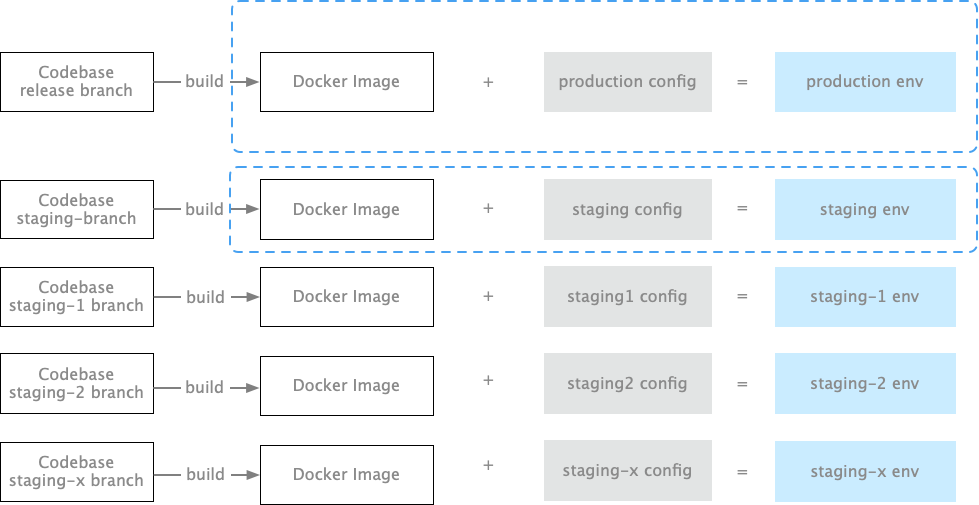
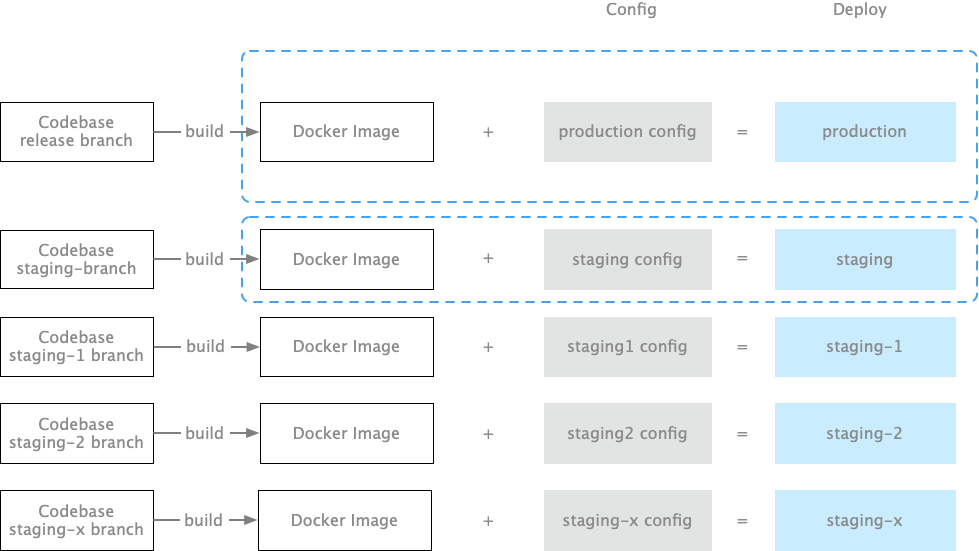
update

diff --git a/_posts/2022-08-12-manage-rails-environments.md b/_posts/2022-08-12-manage-rails-environments.md
@@ -18,7 +18,7 @@ tags:
 
 **少量客户阶段**
 
-产品不断迭代，逐渐的有客户开始使用产品。为了保证工程质量，这时候需要给 Rails 添加一个非生产环境，通常大家都命名为 "staging"环境，工作流程也开始严谨：
+产品不断迭代，逐渐的有客户开始使用产品。为了保证工程质量，这时候需要给 Rails 添加一个预发布环境，通常大家都命名为 staging 环境，工作流程也开始严谨：
 
 1. 工程师在本地开发新功能。（developer 环境）
 2. 在CI（或本地）跑测试。（test 环境）
@@ -35,13 +35,13 @@ environments
 
 **大量客户 + 多团队协作 + 多 QA**
 
-如果产品有市场，客户越来越多。团队规模也由几个人扩增到几十人或上百人。人员众多，且共用一个 staging 环境，合并代码发布到 staging 时就会有越来越多的代码冲突。
+如果产品市场反响良好，客户越来越多。工程师团队规模也由几个人扩增到几十人或上百人。人员众多，且共用一个 staging 环境，合并代码到 staging 分支时就会有越来越多的冲突。
 
-有些程序员比较耐心，遇到冲突会联系原作者，解决代码冲突。
+有些程序员比较耐心，遇到冲突会联系原作者，一起解决代码冲突。
 
-但是如果是跨国团队，一来一回需要一天时间，非常要命。这时候程序员可能就没有耐心，选择直接重置 staging 的 git 分支。这会导致一系列的问题，比如别人正在测试的功能就消失了，QA 工程师认为是 bug，上报，结果细查下来是代码重置导致的。
+但是如果是跨国团队，因为时差的原因，一来一回的沟通需要一天时间，非常要命。这时候程序员可能就没有耐心，选择直接重置 staging 分支，这会导致别人正在测试的功能凭空消失，QA 工程师上报 bug，结果细查下来是代码重置导致的。
 
-为了降低冲突和沟通成本，很多公司会选择创建更多的 staging 环境：
+为了降低代码冲突和沟通成本，很多公司会选择创建更多的预发布(staging)环境：
 
 - staging 给 QA 专用，用于上线前的回归测试。
 - staging-1 给 A 团队使用
@@ -49,24 +49,27 @@ environments
 - staging-3 给 C 团队使用
 - staging-4 给 D 团队使用
 - staging-5 给 E 团队使用
+- ...
+- staging-x 给 x 团队使用
 
-工程师越多，需要创建的 Rails 环境也越多，环境的管理和创建是个头疼的问题。
+工程师越多，需要的 Rails 环境也越多，环境的创建和维护变成 DevOps 的体力活。
+
+如何创建新环境呢？
 
 ## 第一种方案： 在 Rails 的 `config/environments` 目录下创建6个环境的配置文件。
 
-这种方法简单，且遵循了原汁原味的 Rails 风格。
+这是 Rails 推荐的配置风格，方法简单，原汁原味。
 
 ![](/media/files/2022/2022-08-12-08-41-03-stagings.jpg)
 
-但除了 `config/environments`，还有许多需要额外的工作。
-
-第二步，在 database.yml 添加6个环境的数据库配置。
+但除了 `config/environments`，还有许多额外工作。我们需要在 `config/database.yml` 添加6个环境的数据库配置。
 
 ![](/media/files/2022/2022-08-12-database-yml.jpg)
 
-第三步，有些工程师喜欢把一些配置放到常量里。我们需要检查各种常量，确保新创建的环境，都有对应的值。
+有些工程师喜欢把一些配置放到常量里。那我们还需要检查各种常量，确保新创建的环境，都有赋值。尤其是在犄角旮旯里定义的变量，如果没有察觉，新环境会一直报错。所以需要全局搜索 `Rails.env`，免得遗漏。
 
 ```
+# config/initializers/sidekiq.rb
 
 case Rails.env
 when :staging-1
@@ -77,7 +80,7 @@ when :staging-2
 ...
 ```
 
-第四步，有些工程师喜欢用一些库来管理配置，比较常用的是 [rubyconfig/config](https://github.com/rubyconfig/config)。我们需要为新创建的环境添加配置文件。
+在常量里定义配置，糟糕透顶。所以有品位的工程师会把不同环境的配置抽象出来，放到不同的文件中，并且用一些库来管理配置，Rails 常用的库是 [rubyconfig/config](https://github.com/rubyconfig/config)。我们也需要为新创建的环境添加配置文件。
 
 ```
 config/settings.yml
@@ -93,21 +96,19 @@ config/settings/staging-4.yml
 config/settings/staging-5.yml
 ```
 
-第五步，全局搜索 `Rails.env` ，逐一检查，免得遗漏。
 
-全套走下来，工程量不小，也带来诸多缺点：
+总之，以上都不是万全之策，有诸多缺点：
 
-1. 如果在犄角旮旯里配置了和环境相关的变量，而你没有察觉，新环境会一直报错。
-2. 修改常量很危险。每次增加环境会改动老代码，稍有不慎就会把所有环境毁了。违背了开放封闭原则（Open–closed principle）。
-3. 安全性差。配置中可能包含 client_secret，token，私钥。如果代码不幸泄露，各种秘钥也被一锅端。针对这个问题，Rails 6 推出了 [Rails Credential](https://edgeguides.rubyonrails.org/security.html#environmental-security) 这个功能。
+1. 即使有完备的内部文档，搭建新环境也非常耗时耗力，全套走下来，工程量不小。
+2. 修改常量很危险，创建环境会触碰老代码，稍有不慎就会毁掉所有环境，违背了开放封闭原则（Open–closed principle）。
+3. 安全性差。配置中包含 client_secret，token，私钥，如果代码不幸泄露，各种秘钥被一锅端。针对这个问题，Rails 6 推出了 [Rails Credential](https://edgeguides.rubyonrails.org/security.html#environmental-security) 这个功能。
 3. docker 镜像混杂了各种配置信息，不再干净。
 
-我想正因为这种方案的诸多缺点，大家在实践时，才会不约而同选择把配置信息放到环境变量中，这不得不提一下 12-factors。
+正因为如此多的缺点，大家不约而同的把配置信息放到环境变量中，并且归纳总结了一些最佳实践供后人学习。
 
+## The 12-factor Application
 
-## 12-factors
-
-Heroku 写过一篇奉为圭臬的 SaaS 架构文章 《[12-factors application](https://12factor.net/)》，里面描述了设计 SaaS 应用时12条原则。时至今日，其地位依然无法撼动。
+Heroku 写过一篇奉为圭臬的 SaaS 架构文章 《[12-factor  Application](https://12factor.net/)》，里面描述了设计 SaaS 应用的12条原则。时至今日，依然无出其右。
 
 ### 第一条原则：一份基准代码（Codebase），多份部署（deploy）
 
@@ -117,7 +118,7 @@ Heroku 写过一篇奉为圭臬的 SaaS 架构文章 《[12-factors application]
 
 ### 第二条原则：显式声明依赖关系（ dependency ）
 
-同样的代码，在不同机器，依赖要一致，行为也要一致。人们为此付出了诸多努力，比如：
+同样的代码，在不同机器，依赖要一致，行为也要一致，比如：
 
 - JavaScript 使用 npm 或 yarn 来管理各种库的依赖。
 - Ruby 使用 Bundler 来管理各种库的版本依赖。
@@ -125,13 +126,13 @@ Heroku 写过一篇奉为圭臬的 SaaS 架构文章 《[12-factors application]
 
 ### 第三条原则：在环境中存储配置
 
-> [the 12-factor app: config](https://12factor.net/zh_cn/config)
+> [The 12-factor App: 配置](https://12factor.net/zh_cn/config)
 > 
-> 12-Factor推荐将应用的配置存储于环境变量中（ env vars, env ）。环境变量可以非常方便地在不同的部署间做修改，却不动一行代码。
+> 12-Factor 推荐将应用的配置存储于环境变量中（ env vars, env ）。环境变量可以非常方便地在不同的部署间做修改，却不动一行代码。
 
 **Docker**
 
-比如 Docker 允许你把配置放到环境变量中，从而创建不同的 container 实例。
+比如 Docker 允许你把配置放到环境变量中，从而创建不同的实例（container）。
 
 ```
 docker run --name postgresql \
@@ -143,16 +144,18 @@ docker run --name postgresql \
 
 **Helm**
 
-[Helm](https://helm.sh/) 是一个 Kubernetes 应用的包管理工具，它有三个核心概念，chart，config，release。它也与 12-factor 相通。
+[Helm](https://helm.sh/) 是一个 Kubernetes 应用的包管理工具，它有三个核心概念，chart，config，release。
 
 - chart 是模版
 - config 是配置信息
 
 chart + config = release （一个部署的实例）
 
-**由此可见，我们的第一种实现方案，每次添加新环境都要改动代码，完全不符合 12-factor application 的原则。有没有更好的解决思路？**
+**前文所述的第一种方案，每次添加新环境都要改动代码，完全不符合 12-factor Application 的原则。**
 
-## 第二种做法：代码无状态，配置信息放到环境变量中。
+如何改进？
+
+## 第二种方案：代码无状态，配置信息与代码分离。
 
 第一步，保证代码中所有的配置信息都取自环境变量，代码无状态。
 
@@ -190,9 +193,9 @@ class OauthController < ApiController
 end
 ```
 
-第二步，为 production, staging-1, staging-2, staging-3, staging-4, staging-5 创建不同的配置文件。
+第二步，我们不再称呼 staging-1, staging-2, staging-3, staging-4, staging-5, ... staging-x，production 为环境，而是把他们看做代码的运行实例，称之为部署 (deploy)，每个部署都有自己的配置文件。
 
-如果你使用的是 AWS，可以把某个环境的配置保存在 [Parameter Store](https://docs.aws.amazon.com/systems-manager/latest/userguide/systems-manager-parameter-store.html)，敏感信息可以保存在 [AWS secret manager](https://aws.amazon.com/secrets-manager/)。
+如果你使用的是 AWS，可以把某个部署(deploy) 的配置保存在 [Parameter Store](https://docs.aws.amazon.com/systems-manager/latest/userguide/systems-manager-parameter-store.html)，敏感信息可以保存在 [AWS secret manager](https://aws.amazon.com/secrets-manager/)。
 
 ```
 # 创建 staging-1 的配置信息
@@ -203,35 +206,44 @@ aws ssm put-parameter \
     --tags "DB_HOST=xxx,DB_USER=xxx,DB_PASSWORD=xxx,REDIS_HOST=xxx,GOOGLE_OAUTH_URL=xxxx"
 ```
 
-如果你是用的是 Kubernetes，可以把某个环境的配置保存在 [ConfigMap](https://kubernetes.io/docs/concepts/configuration/configmap/)，敏感信息保存在 [Secret](https://kubernetes.io/docs/concepts/configuration/secret/) 中。
+如果你是用的是 Kubernetes，可以把不同部署的配置信息保存在不同的 [ConfigMap](https://kubernetes.io/docs/concepts/configuration/configmap/)，敏感信息保存在 [Secret](https://kubernetes.io/docs/concepts/configuration/secret/) 中。
 
 ```
 kubectl create configmap staging1-config-map \
-  --from-literral="DB_HOST=mydb.1234567890.us-east-1.rds.amazonaws.com" \
+  --from-literral="DB_HOST=xxx" \
   --from-literral="DB_USER=postgres" \
-  --from-literral="DB_PASSWORD=DdQDQ2RgmRJje9CH1cqn"
+  --from-literral="DB_PASSWORD=xxx"
 ```
 
 
-第三步，无论是 production, staging-1， staging-2， staging-3， staging-4，staging-5，还是将来的 staging-100，都共用 `config/environments/production.rb`，换言之各环境 `Rails.env` 返回的永远是 "production"。
+第三步，我们把 `config/environments` 下的三个文件 production.rb / staging.rb /development.rb / test.rb 看做 Rails 不同的运行模式（mode），而不是看做运行实例。
+
+换言之无论是 production, staging-1， staging-2， staging-3， staging-4，staging-5，还是将来的 staging-100，它们既可以选择 `production` 的运行模式，也可以选择 `staging` 的运行模式，你可以根据自己的实际情况来决定。
+
+在本文中，所有的部署（deploy）都使用 production mode 去运行。
+
+```
+export .env.staging-1
+RAILS_ENV=production rails s
+```
 
 ![](/media/files/2022/2022-08-12_14-07-10-production-yml.jpg)
 
-第四步： 代码 + 不同的配置 = 不同的环境。
+第四步： 代码 + 不同的配置 = 不同的部署(deploy)。
 
 如果你使用的是 Capistrano 部署代码，那么
 
 ```
-Code + 不同配置 = 不同的环境
+Code + 不同配置 = 不同的部署(deploy)
 ```
 
 如果你使用的是 Docker 部署，那么：
 
 ```
-Docker Image + 不同配置 = 不同的环境。
+Docker Image + 不同配置 = 不同的部署(deploy)。
 ```
 
-如果你使用的是 Kubenetes，将不同配置文件注入到了Pod中，就搭起了不同的环境。
+如果你使用的是 Kubenetes，将不同配置文件注入到了Pod 中，就变成了不同的部署 (deploy)。
 
 ```yaml
 ---
@@ -256,39 +268,37 @@ spec:
 
 ### 优点
 
-它省时省力。创建环境，只需要准备一份新的配置文件就可以。
+创建部署（deploy），只需要准备一份新的配置文件就可以，省事省力。
 
-这种方案也保证了安全。代码中不包含机密信息，即使代码泄露也不会扩大风险。不同环境配置文件可以设置不同的访问权限，比如仅仅允许 DevOps 团队访问 production 的配置信息。
+这种方案也保证了安全。代码中不包含机密信息，即使代码泄露也不会扩大风险。不同部署(deploy) 的配置文件可以设置不同的访问权限，比如仅仅允许 DevOps 团队访问 production deploy 的配置信息。
 
-最后，所有环境的 Rails.env 都是 production，它消除了不同环境的差异（[parity](https://12factor.net/dev-prod-parity)）。
+在本文中所有部署(Deploy) 的运行模式都是 production mode，以此消除了不同部署 (deploy) 的差异（[parity](https://12factor.net/dev-prod-parity)）。
 
 
 ### 第二种方案的缺点
 
-NewRelic, Datadog, Sentry 等监控工具默认会通过 `Rails.env`来读取环境信息，并附在监控信息上。当我们在监控工具查看日志，异常，性能报告时可以以此筛选。
+NewRelic, Datadog, Sentry 等监控工具默认会把 `Rails.env`并附着在日志(log)，异常（error)，性能数据上，方便过滤。
 
 ![](/media/files/2022/2022-08-12_12-47-48.jpg)
 
-第二种方案中，所有的环境 `Rails.env` 读取的值永远是 "production"。这就导致监控系统中会把各个环境的日志(log)，异常（error)，性能数据(application performance monitoring, apm)都混在 production 下。遇到问题，工程师根本无法区分是哪个环境出了问题。
+第二种方案中，所有的部署的运行模式都为 production mode，这导致监控工具把所有数据都混在 production mode 下。遇到问题，工程师根本无法区分是哪个部署出了问题。
 
 ![](/media/files/2022/2022-08-12_12-56-12-only-production.jpg)
 
-
 ## 如何解决监控工具的问题？
 
-其实 NewRelic, Datadog, Sentry 提供了接口，允许我们自定义环境名称，以 Sentry 举例，它的语法如下：
+其实 NewRelic, Datadog, Sentry 提供了接口，允许我们自定义实例的名字，以 Sentry 举例，它的语法如下：
  
  ```ruby
 Sentry.init do |config|
   #...
-  config.environment = "你喜欢的环境名"
+  config.environment = "你喜欢的部署名"
 end
 ```
 
-我们可以在 production, staging, staging-1 等不同环境中的配置中，引入一个新的环境变量 "DEPLOYMENT_ID" 来声明环境名称。当 Rails 初始化各种监控工具时，读取 ENV["DEPLOYMENT_ID"] 的值作为环境名称。
+因此我们可以在staging-1, staging-2, staging-x, production 等不同部署中的配置中，引入一个新的变量 "DEPLOYMENT_ID" 来声明部署的名称。初始化各种监控工具时，读取 ENV["DEPLOY_ID"] 的值。
  
- 
-拿 staging-1 举例，如果它的配置信息如下：
+假如 staging-1 的配置信息如下：
 
 ```
 DEPLOYMENT_ID=staging-1
@@ -297,13 +307,12 @@ DB_USER=postgres
 ...
 ```
 
-
 我们可以这样配置 Sentry：
 
 ```ruby
 Sentry.init do |config|
   #...
-  config.environment = ENV['DEPLOYMENT_ID']
+  config.environment = ENV['DEPLOYMENT_ID'] # 它的值为 staging-1
 end
 ```
 
@@ -312,26 +321,40 @@ end
 ```ruby
 Datadog.configure do |c|
   # ...
-  c.env = ENV['DEPLOYMENT_ID']
+  c.env = ENV['DEPLOYMENT_ID'] # 它的值为 staging-1
 end
 ```
 
-这样就能保证监控工具的正常运转了。
+这样就能保证监控工具的正常显示了。
+
+![](/media/files/2022/2022-08-12_20-35-02-deploy.md)
 
 
-## 设计图
+## 迷惑的概念
 
-千言万语，不如一个图。
+或许很多人读完文章之后会对 Deploy 和 Environment 这两个概念更加疑惑。我想，这种的困惑来自于固有印象：每个应用仅有一个 production 部署。
+
+现实世界并非如此。
+
+**很多 SaaS 应用支持大客户的私有化部署**。同样一套代码，会卖给中国电信，中石油，公安系统。代码部署在他们各自的私有云上，运行模式都为 production mode。
+
+**不同国家也有不同的数据治理策略**。中国要求 Apple iCloud 的数据必须存在云上贵州。iCloud 同一套代码部署在中国和美国，其运行模式都为 production mode。抖音在美国部署在 Oracle Cloud上，在中国则部署在自己的机房里，他们的运行模式也都为 production mode。
+
+12-factor 提出的部署（deploy）这个概念是比环境（Environment）更加精确的概念。
+
+总结一下：
+
+- 把 production / staging 看做运行模式。
+- 把 staging-1, staging-2, staging-3, staging-4, staging-5, production 看做代码的运行的实例。
 
 ![](/media/files/2022/2022-08-12-codebase-build-config-deploy.png)
 
 
 ## 后记
 
-虽然范例都是 Ruby on Rails 框架，但我觉得这思路也可以扩展到其他语言和Web 框架。
+本文以 Ruby on Rails 为示例代码，但此方案并不局限于 Rails 框架，也适用于到其他语言和Web 框架。
 
 本文中的方案，来自于 Workstream 同事们的实践经验，我只是提笔记录下来，并非我的工作成果。
 
 特别感谢 Louise Xu, Felix Chen, Vincent Huang, Teddy Wang 的审校和反馈。
-
 
